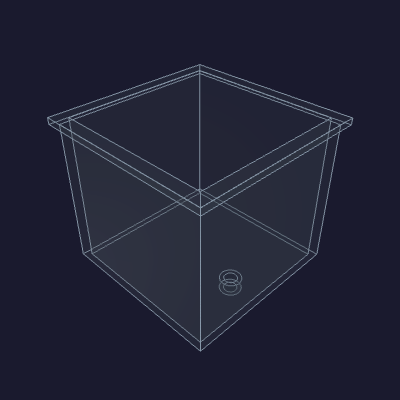
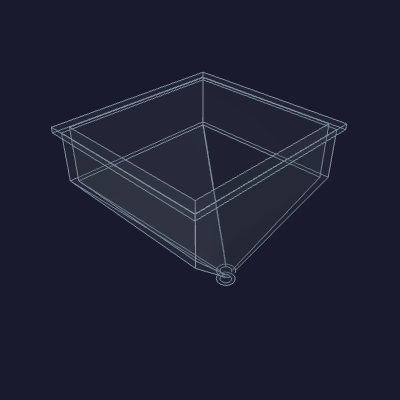
lite/funnel: restore a usable funnel shape; let it cross the split
The previous pass made the hopper unusable — a tall tube with no ramp and a tiny
opening — by jamming the chute full-height and clamping the opening to avoid the
seam. Fix both:

- funnel.py: chute back to 30 mm and the spout dropped (fitting gap 14->8), so a
  real ~50 mm funnel ramp returns. Opening widened to a usable 90 x 95 mm.
- enclosure.py: stop clamping the opening in front of the seam lip. The opening
  reaches straight back and the funnel CROSSES the split — the lip's top band is
  notched out of its path and the opening is punched through BOTH halves. The
  split is not a placement barrier. front ∩ back still 0 (slip-fit intact).

diff --git a/pie-in-the-sky/lite/enclosure/enclosure.py b/pie-in-the-sky/lite/enclosure/enclosure.py
@@ -95,11 +95,11 @@ display_pcb_cut_through = 3.0    # extra depth past the facet back, cutting the
 # collar press-fits the opening, and its bore ramps down to a spout inside. Sized
 # to the room to the right of the display; the +X edge is clamped clear of the
 # top-right corner pod.
-# The opening is narrow in X and deep in Y (a quarter-turn from the wide-X
-# Kitchen hopper), so the funnel takes little lateral room beside the display and
-# reaches back over the front zone instead. Depth is held clear of the reservoir
-# front (the reservoir is full height behind it).
-hopper_hole_x = 80.0    # opening width (X), nominal before the corner-pod clamp
+# The opening is narrower in X than the wide Kitchen hopper (a quarter-turn) but
+# kept usable — wide enough to pour into, deep enough for a real ramp. It reaches
+# back across the seam (the funnel crosses the split — the split is not a barrier)
+# and stops just short of the reservoir, which stands full height behind it.
+hopper_hole_x = 90.0    # opening width (X), nominal before the corner-pod clamp
 hopper_hole_y = 95.0    # opening depth (Y), from the inner front wall back
 
 # Split + boss parameters — every dimension sized to its function. The seam is a
@@ -318,18 +318,18 @@ def _hopper_hole(inner, outer):
     x0 = ox0 + display_facet_x + wall                  # just past the facet gusset
     pod_in = ix1 + wall - (head_cbore_depth + screw_len + socket_cap)
     x1 = min(x0 + hopper_hole_x, pod_in - 1.0)         # clear the top-right pod
-    # The front lip starts one wall ahead of the joint; keep the opening (and its
-    # funnel) a hair in front of it so it never fouls the seam.
-    _a, _n, _o, dy, _dz = _facet_geom(outer)
-    y_joint = oy0 + dy + display_facet_thickness * math.sqrt(2.0) + 2.0
-    y1 = min(iy0 + hopper_hole_y, y_joint - wall - 2.0)
-    return x0, x1, iy0, y1
+    # The opening reaches straight back across the seam (the funnel crosses the
+    # split); the seam lip is notched out of its path in both halves, so the depth
+    # is set only by the parameter and the reservoir behind it.
+    return x0, x1, iy0, iy0 + hopper_hole_y
 
 
 def _hopper_cut(inner, outer):
-    """The funnel opening punched clean through the top wall."""
+    """The funnel opening punched clean through the top wall — and one wall
+    deeper, so where the opening crosses the seam it also notches the telescoping
+    lip's top band out of the funnel's path. Applied to BOTH halves."""
     x0, x1, y0, y1 = _hopper_hole(inner, outer)
-    return _ybox(x0, x1, y0, y1, inner[5] - 1.0, outer[5] + 1.0)
+    return _ybox(x0, x1, y0, y1, inner[5] - wall - 1.0, outer[5] + 1.0)
 
 
 # --- split joint: telescoping lip + X-axis corner cross-pins ----------------
@@ -530,6 +530,9 @@ def build_back_half(dims=None):
         back = back.fuse(_back_plug(x_ext, sx, z_boss, yb, y_joint))
     for x_in, x_ext, sx, z_boss, sz in _bosses(inner):
         back = back.fuse(_back_brace(x_in, x_ext, sx, z_boss, sz, y_joint, outer, inner))
+    # The hopper opening crosses the seam, so its back portion is punched through
+    # the back half's top wall (and the lip notch already lives in the cut).
+    back = back.cut(_hopper_cut(inner, outer))
     # Clip any corner feature that pokes past the rounded print silhouette.
     back = back.intersect(_rounded_outer(outer))
     for x_in, x_ext, sx, z_boss, _sz in _bosses(inner):

diff --git a/pie-in-the-sky/lite/printed-parts/funnel/funnel.py b/pie-in-the-sky/lite/printed-parts/funnel/funnel.py
@@ -46,9 +46,8 @@ import enclosure as E
 brim_overhang = 3.0     # brim flange reach past the opening, all around
 brim_thickness = 3.0    # flange thickness, resting on the enclosure top
 collar_wall = 3.0       # straight press-fit collar wall (opening − bore)
-chute_h = 72.0          # straight rectangular chute height — brim top down to the ramp
-                        # start. Tall (vs the wide Kitchen hopper) to recover capacity
-                        # the narrow (rotated) mouth gives up; clears the content below.
+chute_h = 30.0          # straight rectangular chute height — brim top down to the ramp
+                        # start. Leaves the rest of the drop for a real funnel ramp.
 neck_dx = 20.0          # neck (ramp foot + spout) shift in +X toward the source-select side
 spout_id = 6.35         # 1/4" outlet bore
 spout_wall = 2.0        # spout wall at the tip
@@ -57,9 +56,10 @@ spout_tube = 6.0        # straight spout tube below the ramp tip — its length 
 tip_clearance = 1.0     # gap left above the tallest content under the mouth
 # The spout exits into the open air ABOVE the front trays (the whole mouth
 # footprint has content under it — the front bag-circuit lid — so there is no
-# clear column to drop into, unlike the Kitchen). Leave real room below the exit
-# for a tube/barb fitting and the flex-tube run back to V-B.
-spout_fitting_gap = 14.0
+# clear column to drop into, unlike the Kitchen). Leave room below the exit for a
+# tube/barb fitting and the flex-tube run back to V-B — but not so much that the
+# ramp is squeezed out.
+spout_fitting_gap = 8.0
 
 
 # --- primitives -------------------------------------------------------------

diff --git a/pie-in-the-sky/lite/printed-parts/funnel/README.md b/pie-in-the-sky/lite/printed-parts/funnel/README.md
@@ -19,7 +19,7 @@ opening:
 - **Brim.** A flat flange overhanging the opening 3 mm all around, resting on the
   enclosure top surface.
 - **Chute.** A tall straight rectangular section — vertical walls, no slope —
-  [72 mm](HOPPER_CHUTE) from the brim top down to where the ramp starts. Its top
+  [30 mm](HOPPER_CHUTE) from the brim top down to where the ramp starts. Its top
   press-fits the [3 mm](WALL) top wall; the rest hangs down into the reserve as a
   straight rectangular drop.
 - **Ramp + spout.** Below the chute a shallow ramp narrows to a round
@@ -28,8 +28,8 @@ opening:
   content below the mouth (read live — the front bag-circuit tray), with room
   left below for a tube/barb fitting; a short flexible tube then carries the pour
   on to V-B (the spout does not land on V-B directly, same as the Kitchen
-  hopper). Total drop [80 mm](HOPPER_DROP) below the brim; capacity to the brim
-  rim ≈ [396 mL](HOPPER_CAP).
+  hopper). Total drop [86 mm](HOPPER_DROP) below the brim; capacity to the brim
+  rim ≈ [358 mL](HOPPER_CAP).
 
 The chute footprint is taken from the enclosure's opening rectangle
 (`enclosure.py` `_hopper_hole`), so the funnel and hole always match.
